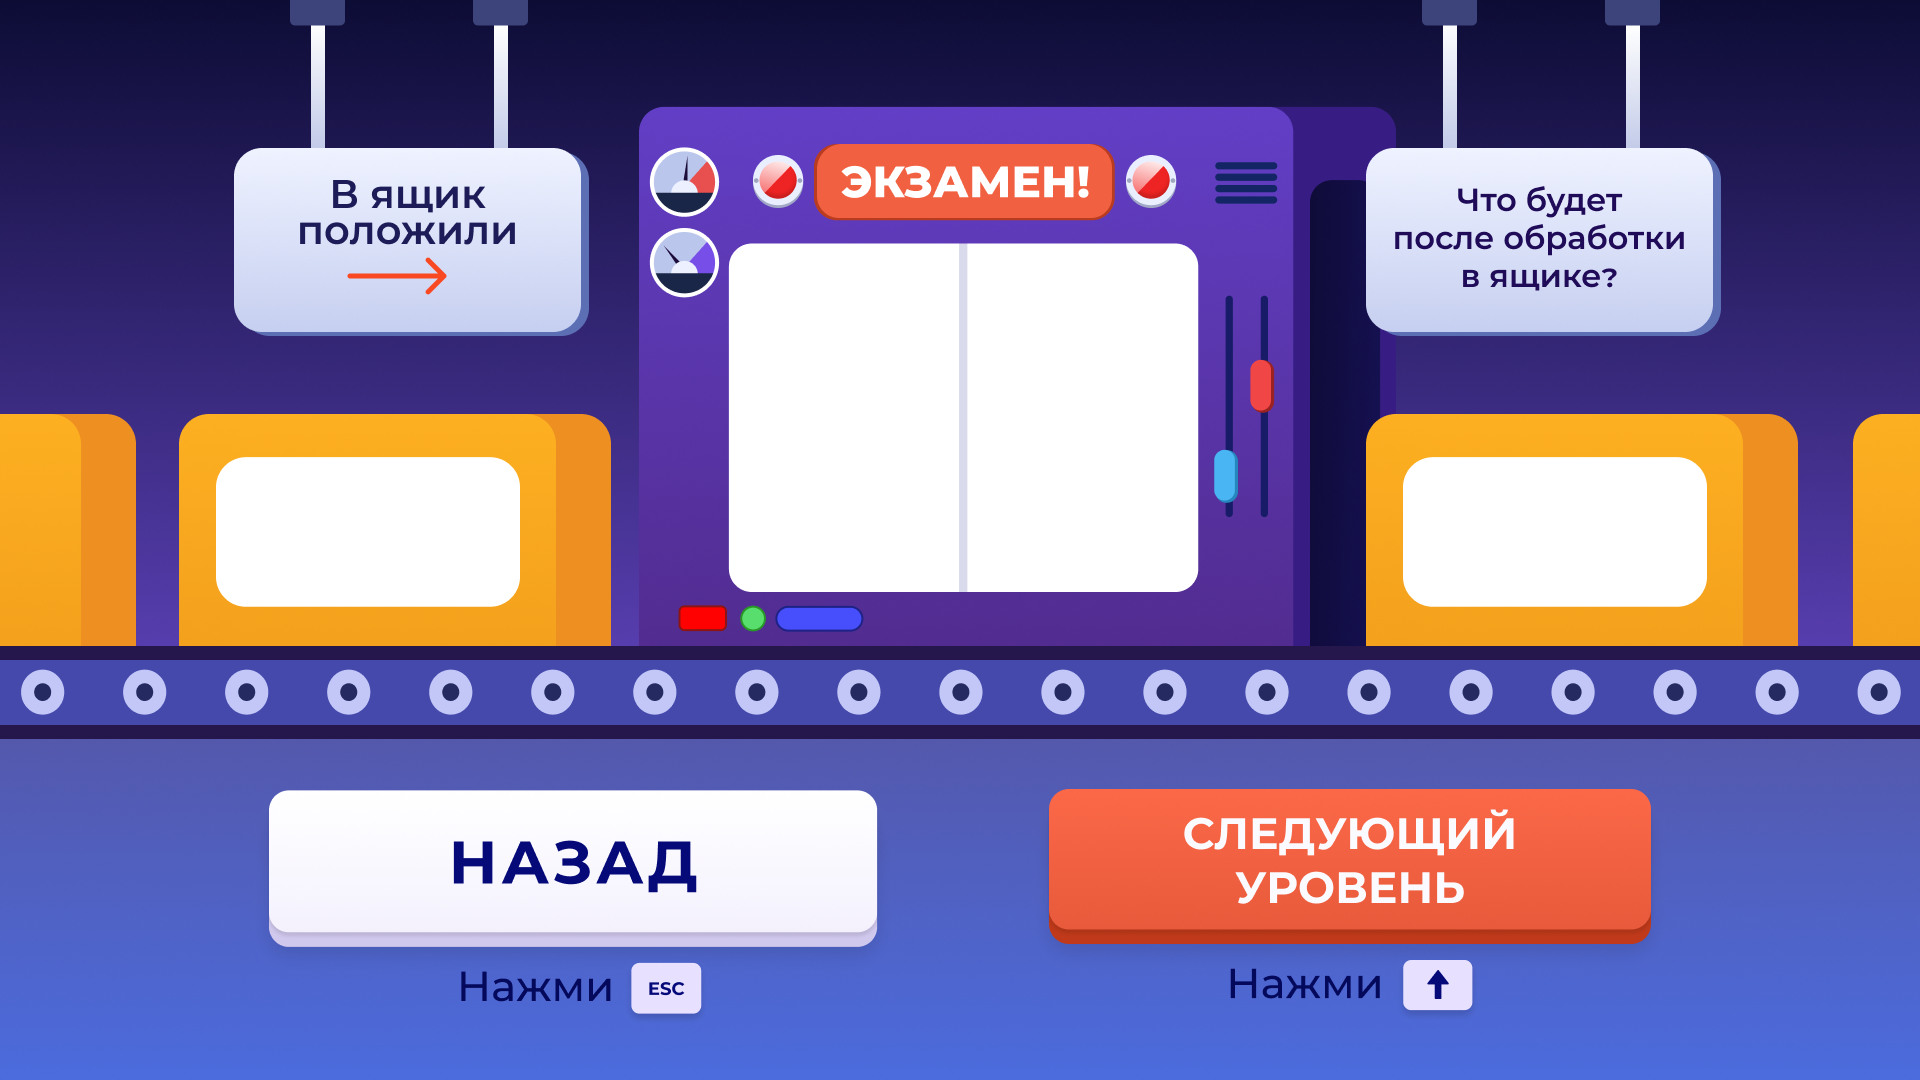
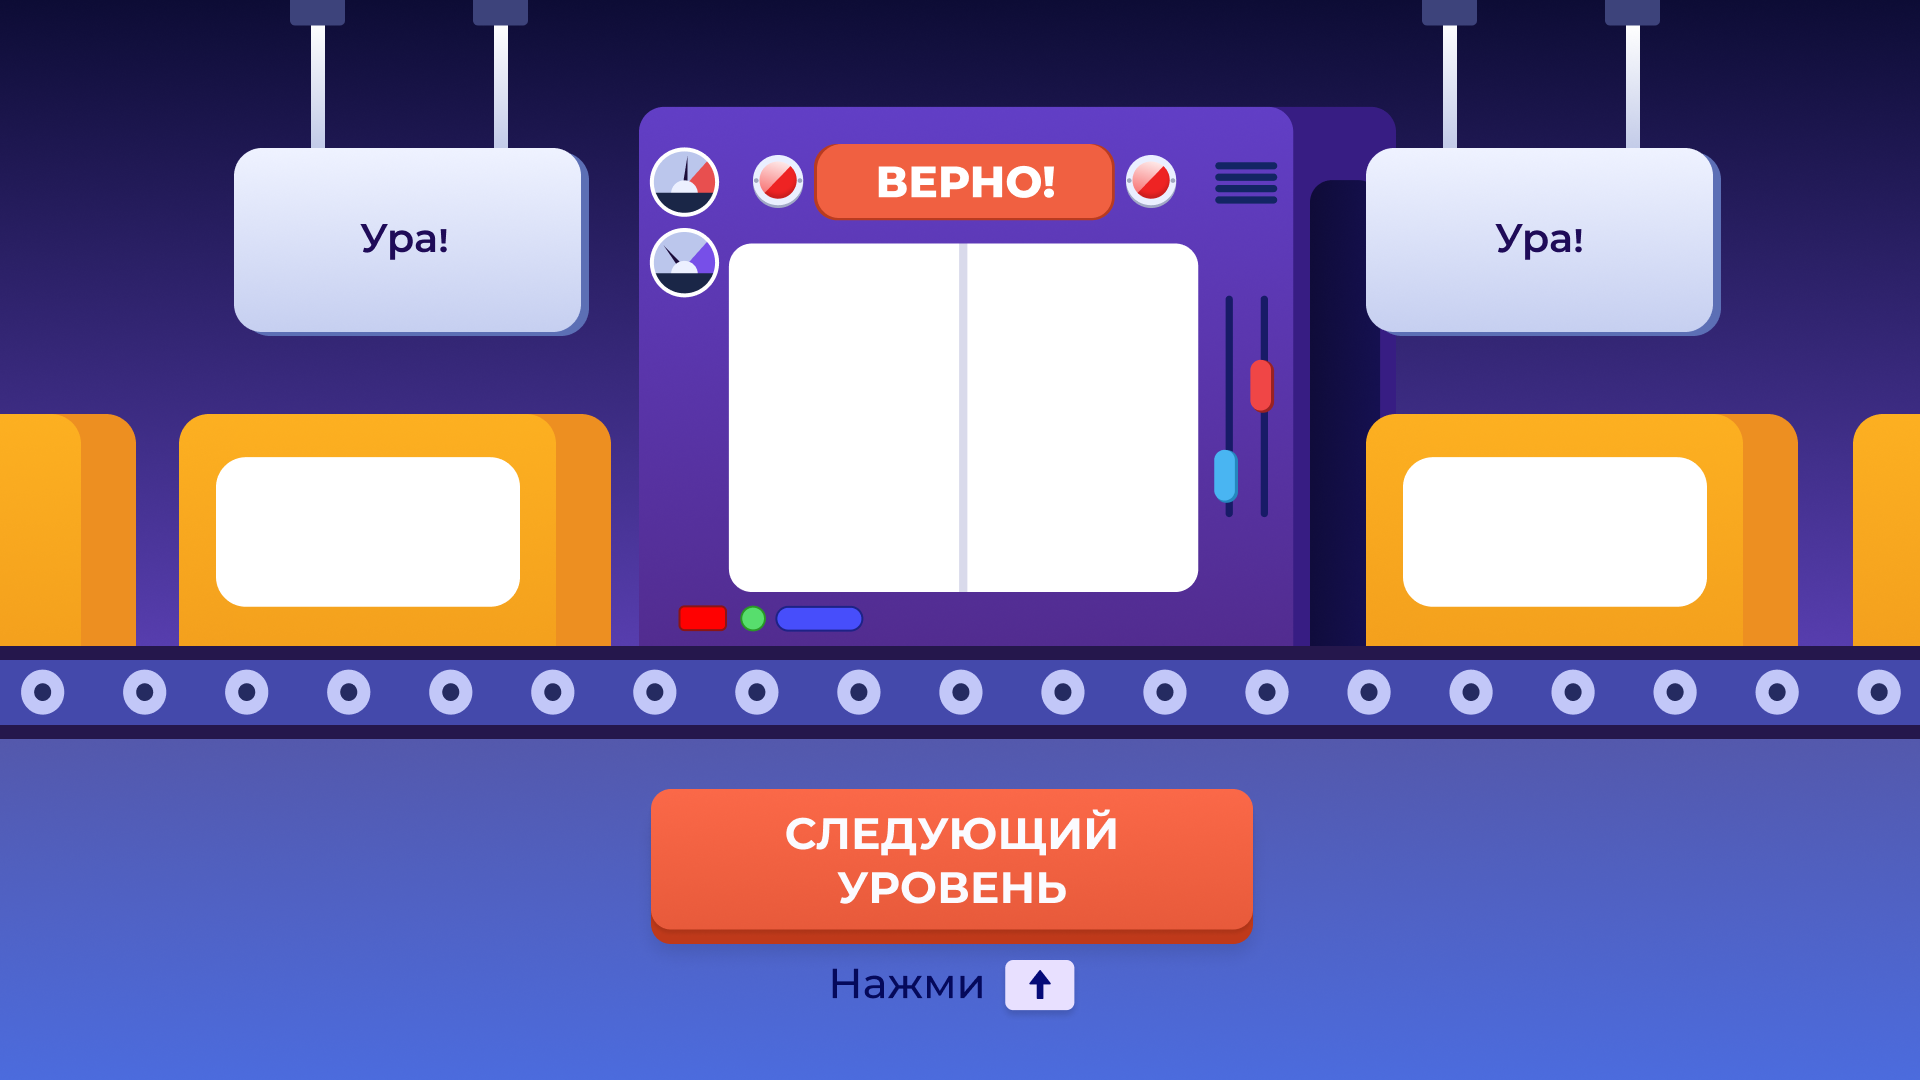
final

diff --git a/main_program.py b/main_program.py
@@ -3,6 +3,7 @@ from main_menu import MainMenu
 from normal_mode import NormalMode
 from exam_mode import ExamMode
 from pop_up_window import PopUP
+from window import Window
 
 from algorithms import a_to_B
 from algorithms import Caesar
@@ -28,13 +29,28 @@ from algorithms import alph
 
 import random
 
-
+#Функция обработки результатов в обычном режиме
 def processing(event):
     global normal_mode
+    global exam_mode
     input_data = normal_mode.entry.get()
     output_data = current_level.factory(input_data)
+
+    normal_mode.history_input['state'] = NORMAL
+    normal_mode.history_output['state'] = NORMAL
+    exam_mode.history_input['state'] = NORMAL
+    exam_mode.history_output['state'] = NORMAL
+
     normal_mode.history_input.insert(0, input_data)
     normal_mode.history_output.insert(0, output_data)
+    exam_mode.history_input.insert(0, input_data)
+    exam_mode.history_output.insert(0, output_data)
+
+    normal_mode.history_input['state'] = DISABLED
+    normal_mode.history_output['state'] = DISABLED
+    exam_mode.history_input['state'] = DISABLED
+    exam_mode.history_output['state'] = DISABLED
+
     normal_mode.label['text'] = output_data
     normal_mode.entry.delete(0, END)
 
@@ -45,14 +61,26 @@ def open_normal_mode(event):
     global exam_mode_go_next
     global levels
     global current_level
-    # try:
-    #     current_level = random.choice(levels)
-    # except IndexError:
-    #     # Закончились уровни
-    #     print()
-    # if normal_mode:
-    main_menu.withdraw()
-    normal_mode.deiconify()
+    # Если закончились уровни, вызывается экран о конце игры
+    if len(levels):
+        current_level = random.choice(levels)
+
+        exam_mode.history_input['state'] = NORMAL
+        exam_mode.history_input.delete(0, END)
+        exam_mode.history_input['state'] = DISABLED
+        exam_mode.history_output['state'] = NORMAL
+        exam_mode.history_output.delete(0, END)
+        exam_mode.history_output['state'] = DISABLED
+
+        normal_mode = NormalMode(main_menu)
+        normal_mode.bind('<Return>', processing)
+        normal_mode.bind('<Up>', open_exam_mode)
+        normal_mode.bind('<Escape>', on_close_normal_mode)
+        main_menu.withdraw()
+    else:
+        end_game.deiconify()
+        end_game.grab_set()
+
 
 
 def on_close_normal_mode(event):
@@ -67,6 +95,7 @@ def open_exam_mode(event):
     global exam_mode
     global current_level
     global exam_mode
+    #Генерация случайной строки текущего уровня
     input_data = current_level.get_random_string()
     normal_mode.withdraw()
     exam_mode.deiconify()
@@ -92,26 +121,13 @@ def open_exam_mode_go_next():
     exam_mode.withdraw()
 
 
-# нужно написать функцию возврата к окну exam_mode
-def on_close_exam_mode_go_next(event):
-    pass
-    # global exam_mode
-    # global exam_mode_go_next
-    # input_data = current_level.get_random_string()
-    # exam_mode.deiconify()
-    # exam_mode.grab_set()
-    # exam_mode.label['text'] = input_data
-    # exam_mode.entry.delete(0, END)
-    # exam_mode.entry.bind('<Return>', lambda e, data=input_data: open_pop_up(e, data))
-    # exam_mode_go_next.withdraw()
-
-
 def open_pop_up(event, input_data):
-    # здесь условие правильно или неправильно угадано
     global exam_mode
     global exam_mode_go_next
     global current_level
+    #Проверка правильности ввода ответа на экзамене
     if exam_mode.entry.get() == current_level.factory(input_data):
+        #Чтобы уровни не повторялись, текущий уровень убирается из списка
         levels.pop(levels.index(current_level))
         exam_mode_go_next.deiconify()
         exam_mode_go_next.grab_set()
@@ -140,34 +156,48 @@ def on_close_lose(event):
 
 def go_next_level(event):
     exam_mode_go_next.withdraw()
-    normal_mode.deiconify()
-    normal_mode.grab_set()
+    open_normal_mode(event)
+
+
+def on_close_end_game(event):
+    global main_menu
+    global end_game
+    global levels
+    levels = [a_to_B, nine_minus_old, Caesar, consonant, dots, FML, joint, polindrome_without, shift, vowel,
+              summ, square, odd_number, mult_number, mult_two_summ_one, length, even_odd, even_number,
+              every_second_del, alph]
+
+    main_menu.deiconify()
+    main_menu.grab_set()
+    main_menu.bind('<Up>', open_normal_mode)
+    main_menu.bind('<Escape>', on_close)
+
+    end_game.withdraw()
 
 
 def on_close(event):
     main_menu.destroy()
 
 
-levels = [a_to_B, nine_minus_old, Caesar, consonant, dots, FML, joint, polindrome_without, shift, vowel, summ, square, odd_number, mult_number, mult_two_summ_one, length, even_odd, even_number, every_second_del, alph]
-current_level = levels[6]
+
+levels = [a_to_B, nine_minus_old, Caesar, consonant, dots, FML, joint, polindrome_without, shift, vowel,
+          summ, square, odd_number, mult_number, mult_two_summ_one, length, even_odd, even_number,
+          every_second_del, alph]
+current_level = 0
 
 
 main_menu = MainMenu()
 
+
 # Инициализация всех окон и биндов
-normal_mode = NormalMode(main_menu)
-normal_mode.withdraw()
-normal_mode.bind('<Return>', processing)
-normal_mode.bind('<Up>', open_exam_mode)
-normal_mode.bind('<Escape>', on_close_normal_mode)
+normal_mode = 0
 
 exam_mode = ExamMode(main_menu)
 exam_mode.withdraw()
 exam_mode.bind('<Escape>', on_close_exam_mode)
 
-exam_mode_go_next = ExamMode(main_menu, 'backgrounds/exam_mode_go_next.png')
+exam_mode_go_next = Window(main_menu, 'backgrounds/exam_mode_go_next.png')
 exam_mode_go_next.withdraw()
-exam_mode_go_next.bind('<Escape>', on_close_exam_mode_go_next)
 exam_mode_go_next.bind('<Up>', go_next_level)
 
 win = PopUP(main_menu, 'backgrounds/win.png')
@@ -178,8 +208,11 @@ lose = PopUP(main_menu, 'backgrounds/try_again.png')
 lose.withdraw()
 lose.bind('<Down>', on_close_lose)
 
-main_menu.grab_set()
+end_game = Window(main_menu, 'backgrounds/end_game.png')
+end_game.withdraw()
+end_game.bind('<Up>', on_close_end_game)
 
+main_menu.grab_set()
 main_menu.bind('<Up>', open_normal_mode)
 main_menu.bind('<Escape>', on_close)
 

diff --git a/normal_mode.py b/normal_mode.py
@@ -9,3 +9,9 @@ class NormalMode(Window):
         self.entry.place(relx=0.115, rely=0.445, relwidth=0.15, relheight=0.1)
         self.label = Label(self, width=6, font=("Montserrat", 60, "bold",), fg="#9597C6", bg="white")
         self.label.place(relx=0.735, rely=0.445, relwidth=0.15, relheight=0.1)
+
+        self.history_input = Listbox(self, width=12, height=9, bg="white", font="Montserrat 19", fg="#1D1C58")
+        self.history_input.place(relx=0.385, rely=0.238, relwidth=0.11, relheight=0.3)
+
+        self.history_output = Listbox(self, width=12, height=9, bg="white", font="Montserrat 19", fg="#1D1C58")
+        self.history_output.place(relx=0.508, rely=0.238, relwidth=0.11, relheight=0.3)

diff --git a/exam_mode.py b/exam_mode.py
@@ -10,4 +10,10 @@ class ExamMode(Window):
         self.label = Label(self, width=6, font=("Montserrat", 60, "bold",), fg="#9597C6", bg="white")
         self.label.place(relx=0.115, rely=0.445, relwidth=0.15, relheight=0.1)
 
+        self.history_input = Listbox(self, width=12, height=9, bg="white", font="Montserrat 19", fg="#1D1C58")
+        self.history_input.place(relx=0.385, rely=0.238, relwidth=0.11, relheight=0.3)
+
+        self.history_output = Listbox(self, width=12, height=9, bg="white", font="Montserrat 19", fg="#1D1C58")
+        self.history_output.place(relx=0.508, rely=0.238, relwidth=0.11, relheight=0.3)
+
 

diff --git a/window.py b/window.py
@@ -24,9 +24,5 @@ class Window(Toplevel):
         self.image = ImageTk.PhotoImage(pil_image)
         self.canvas.create_image(0, 0, anchor="nw", image=self.image)
 
-        self.history_input = Listbox(self, width=12, height=9, bg="white", font="Montserrat 19", fg="#1D1C58")
-        self.history_input.place(relx=0.385, rely=0.238, relwidth=0.11, relheight=0.3)
 
-        self.history_output = Listbox(self, width=12, height=9, bg="white", font="Montserrat 19", fg="#1D1C58")
-        self.history_output.place(relx=0.508, rely=0.238, relwidth=0.11, relheight=0.3)
 

diff --git a/algorithms/joint.py b/algorithms/joint.py
@@ -5,7 +5,14 @@ from algorithms.resources import joint_alphabet
 
 
 def get_random_string():
-    return ''.join(random.choice(eng_alphabet) for i in range(random.choice((3, 4))))
+    flag = False
+    s = ''.join(random.choice(eng_alphabet) for i in range(3))
+    for i in s:
+        if i in joint_alphabet:
+            flag = True
+    if not flag:
+        s += random.choice(joint_alphabet)
+    return s
 
 
 def factory(s):

diff --git a/algorithms/every_second_del.py b/algorithms/every_second_del.py
@@ -6,11 +6,12 @@ from algorithms.resources import eng_alphabet
 def get_random_string():
     return ''.join(random.choice(eng_alphabet) for i in range(random.choice((3, 4))))
 
-def  factory(s):
+def factory(s):
     newnum = ''
     for i in range(len(s)):
         if i % 2 == 0:
             newnum += s[i]
-    print(newnum)
+    if not newnum:
+        newnum = '<Пусто>'
     return newnum
 

diff --git a/algorithms/square.py b/algorithms/square.py
@@ -6,10 +6,12 @@ def get_random_string():
     return str(random.randint(100, 999))
 
 def factory(s):
-    k = ' '
+    k = ''
     if s.isdigit():
         s = int(s)
         k = s * s
+    if not k:
+        k = '<Пусто>'
     return str(k)
 
 

diff --git a/algorithms/even_odd.py b/algorithms/even_odd.py
@@ -16,4 +16,6 @@ def  factory(s):
             else:
                 newnum += str(digit - 1)
             s = s // 10
+    if not newnum:
+        newnum = '<Пусто>'
     return str(newnum)

diff --git a/algorithms/mult_number.py b/algorithms/mult_number.py
@@ -12,7 +12,8 @@ def factory(s):
         while s != 0:
             mul *= s % 10
             s = s // 10
-    else: mul = ' '
+    else:
+        mul = '<Пусто>'
     return str(mul)
 
 

diff --git a/algorithms/alph.py b/algorithms/alph.py
@@ -14,6 +14,8 @@ def factory(s):
             if s[i] == alph[j]:
                 newS += str(j+1)
                 break
+    if not newS:
+        newS = '<Пусто>'
     return newS
 
 

diff --git a/algorithms/mult_two_summ_one.py b/algorithms/mult_two_summ_one.py
@@ -10,4 +10,6 @@ def factory(s):
     if s.isdigit():
         s = int(s)
         newnum = s * 2 + 1
+    if not newnum:
+        newnum = '<Пусто>'
     return str(newnum)
